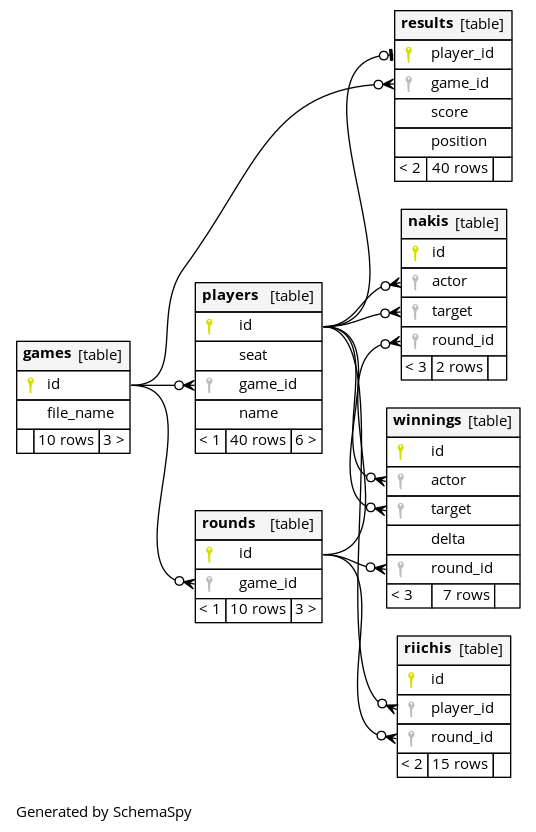
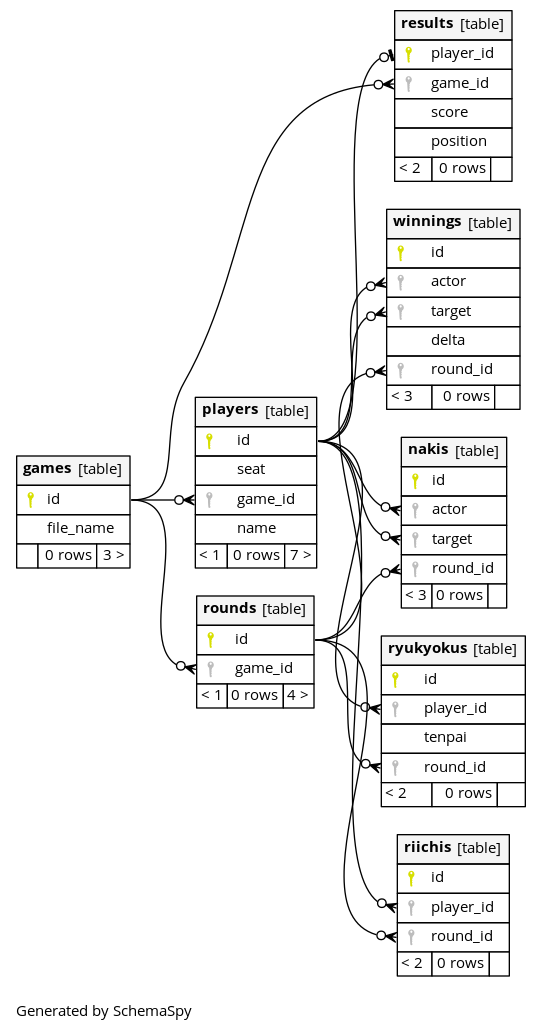
流局テーブルを追加 解析機能を追加

diff --git a/mjai/src/analyze.rb b/mjai/src/analyze.rb
@@ -42,6 +42,10 @@ class Analyzer
     @connection.exec("INSERT INTO winnings VALUES (default,#{@player_id[actor]},#{@player_id[target]},#{delta},#{@round_id})")
   end
 
+  def insert_ryukyoku(actor, tenpai)
+    @connection.exec("INSERT INTO ryukyokus VALUES (default,#{@player_id[actor]},#{tenpai},#{@round_id})")
+  end
+
   def insert_result(seat, score, position)
     @connection.exec("INSERT INTO results VALUES (#{@player_id[seat]},#{@game_id},#{score},#{position})")
   end
@@ -76,6 +80,12 @@ class Analyzer
 
   def hora(message)
     insert_winning(message["actor"], message["target"], message['deltas'][message['actor']])
+  end
+
+  def ryukyoku(message)
+    4.times do |i|
+      insert_ryukyoku(i, message["tenpais"][i])
+    end
   end
 
   def end_game(message)

diff --git a/README.md b/README.md
@@ -2,9 +2,9 @@
 Mjaiイベントログ管理ツール
 
 ## 機能
-- ポート番号11600でMjaiサーバー機能を提供する.
-- ポート番号5432でDBサーバー機能を提供する.
-- ポート番号8000でログ閲覧機能を提供する.
+- Mjaiサーバー(ポート番号: 11600)
+- DBサーバー(ポート番号: 5432)
+- ログ閲覧(ポート番号: 8000)
 
 ## ER図
 ![ER図](relationships.real.large.png)
@@ -14,7 +14,21 @@ Mjaiイベントログ管理ツール
 $ sudo docker run -v "$PWD/output:/output" -v "$PWD/schemaspy.properties:/schemaspy.properties" --net=host --rm schemaspy/schemaspy
 ```
 
-## SQLコマンド例
+## 解析
+
+*Player*の成績
+```
+$ ./analyze.sh Player
+```
+
+## SQLコマンド実行
+
+```
+$ docker exec -it mjai-recoder_db_1 psql mjai_db -U user
+```
+
+<details>
+<summary>SQLコマンド例</summary>
 
 - *Player*の試合数
 ```sql
@@ -95,3 +109,5 @@ select ranking.position, count(ranking.position) from (select results.position f
 ```sql
 select round(avg(results.position), 2) from results inner join players on results.player_id = players.id where players.name = 'Player';
 ```
+
+</details>
